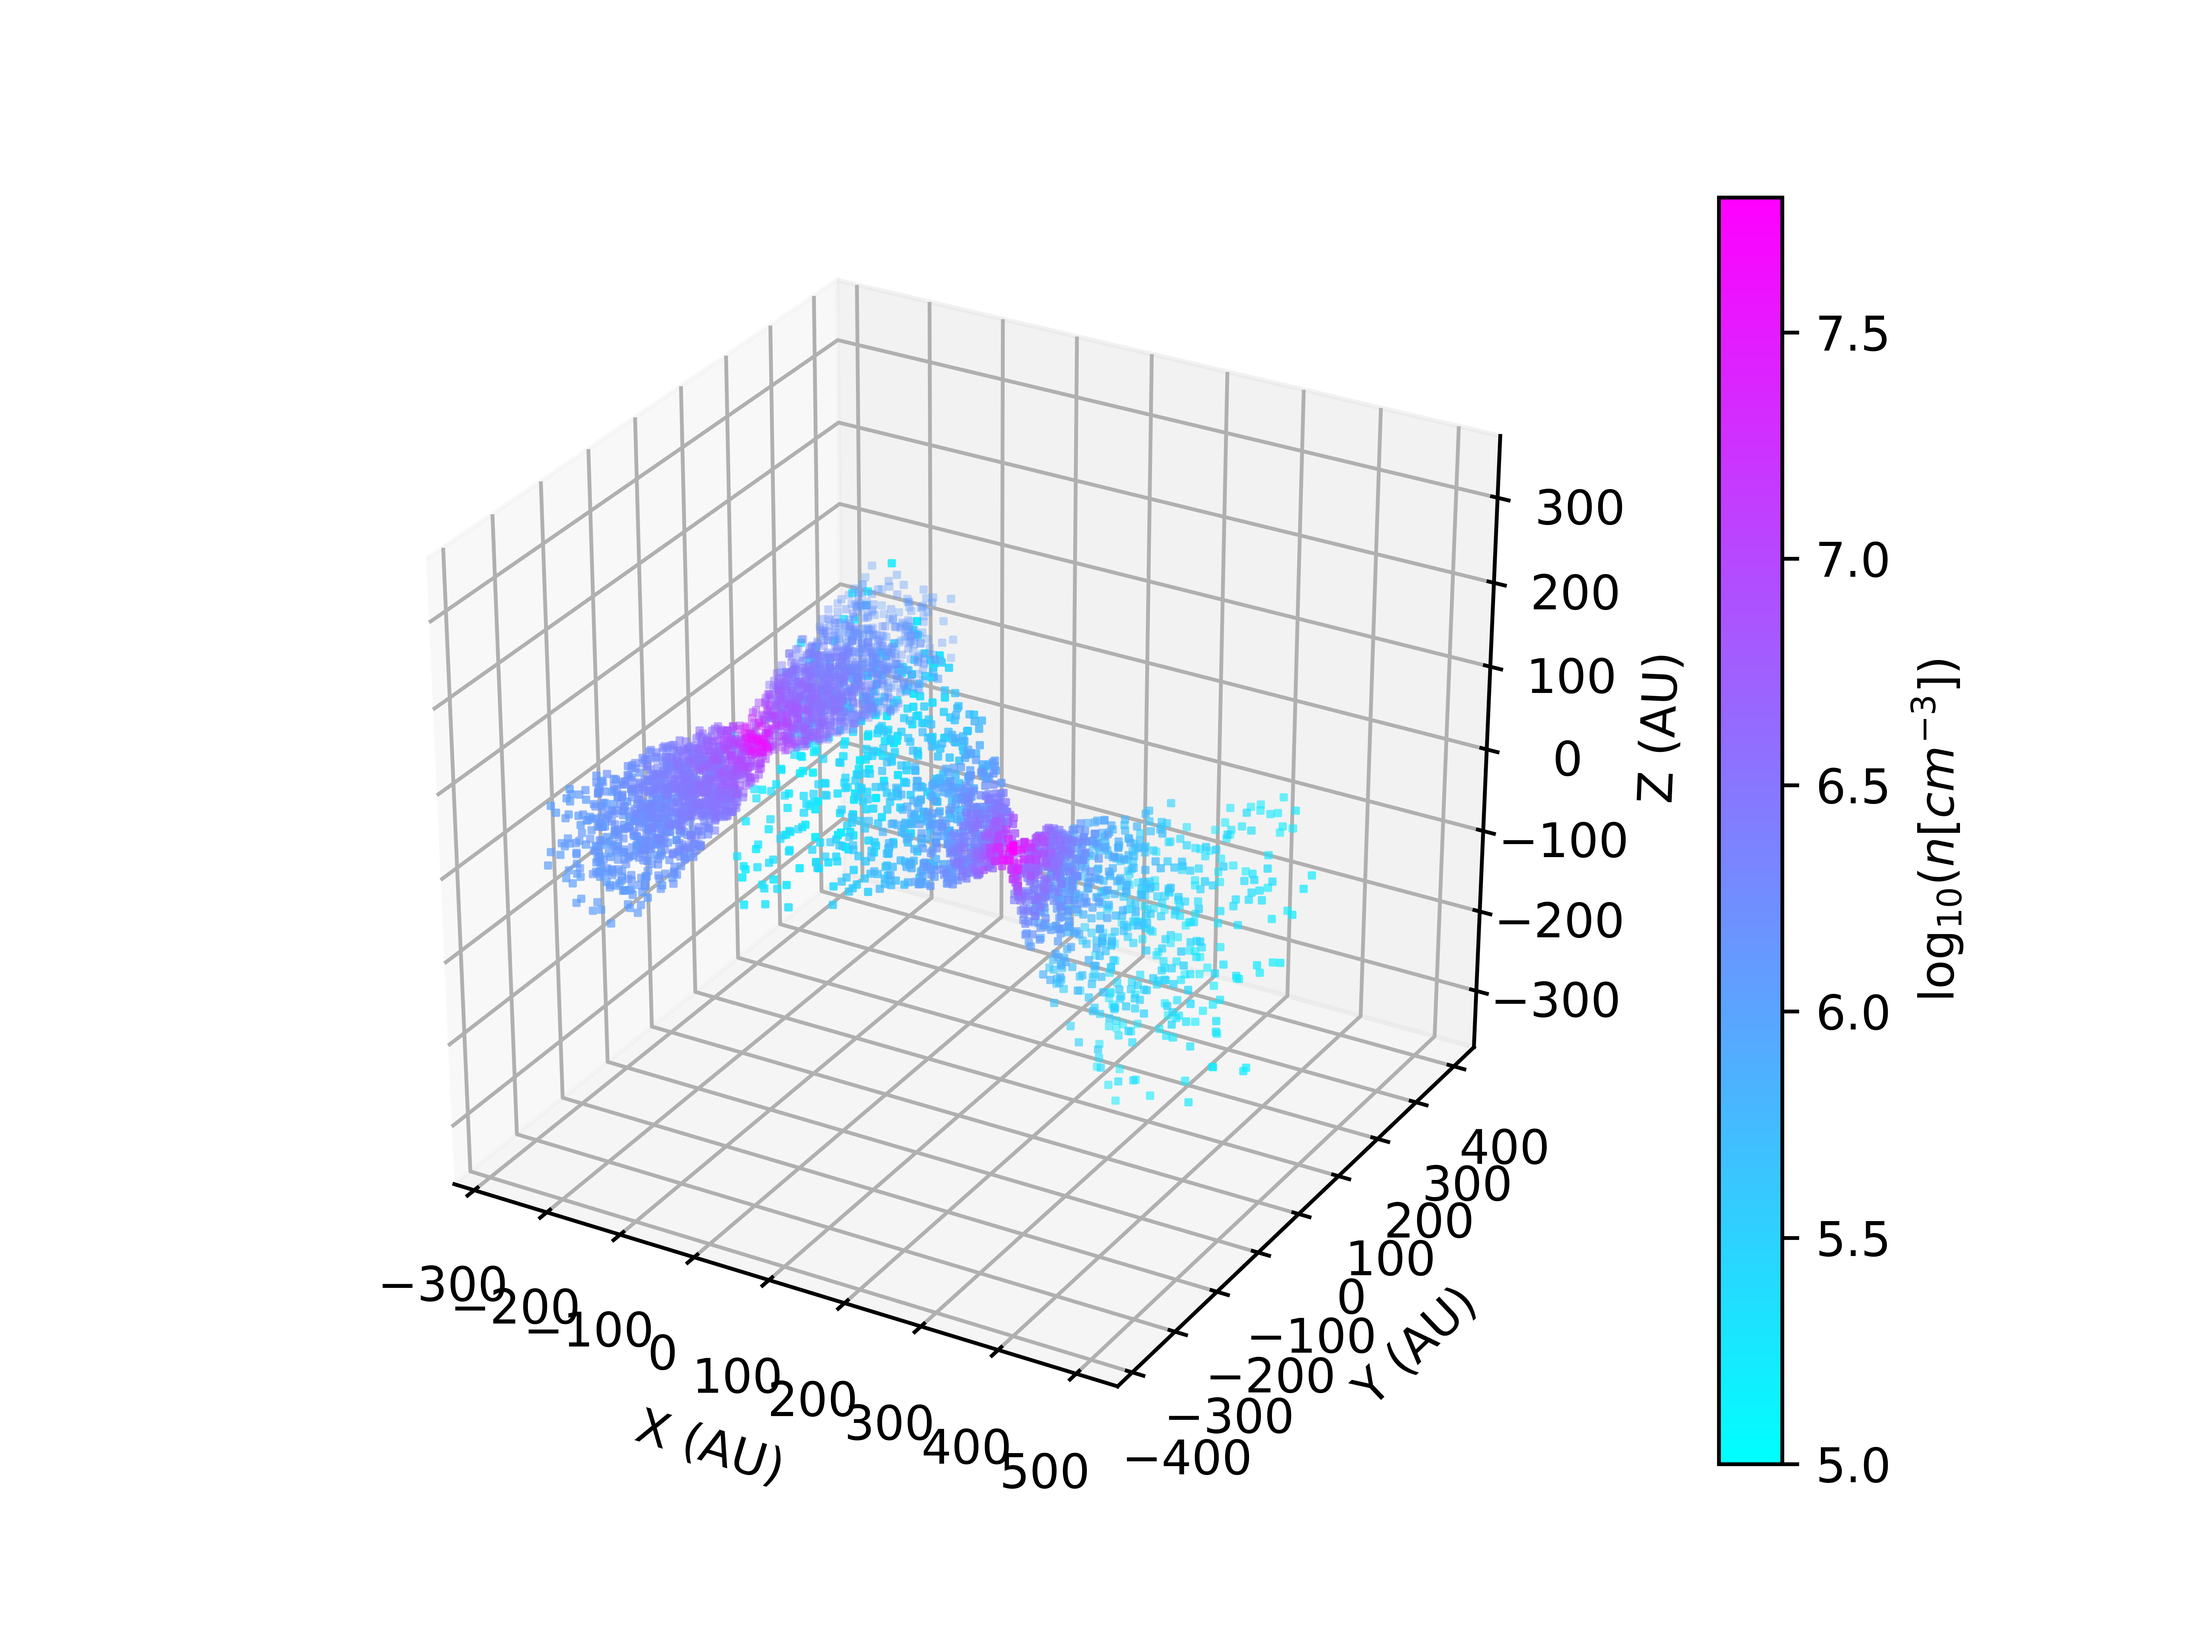
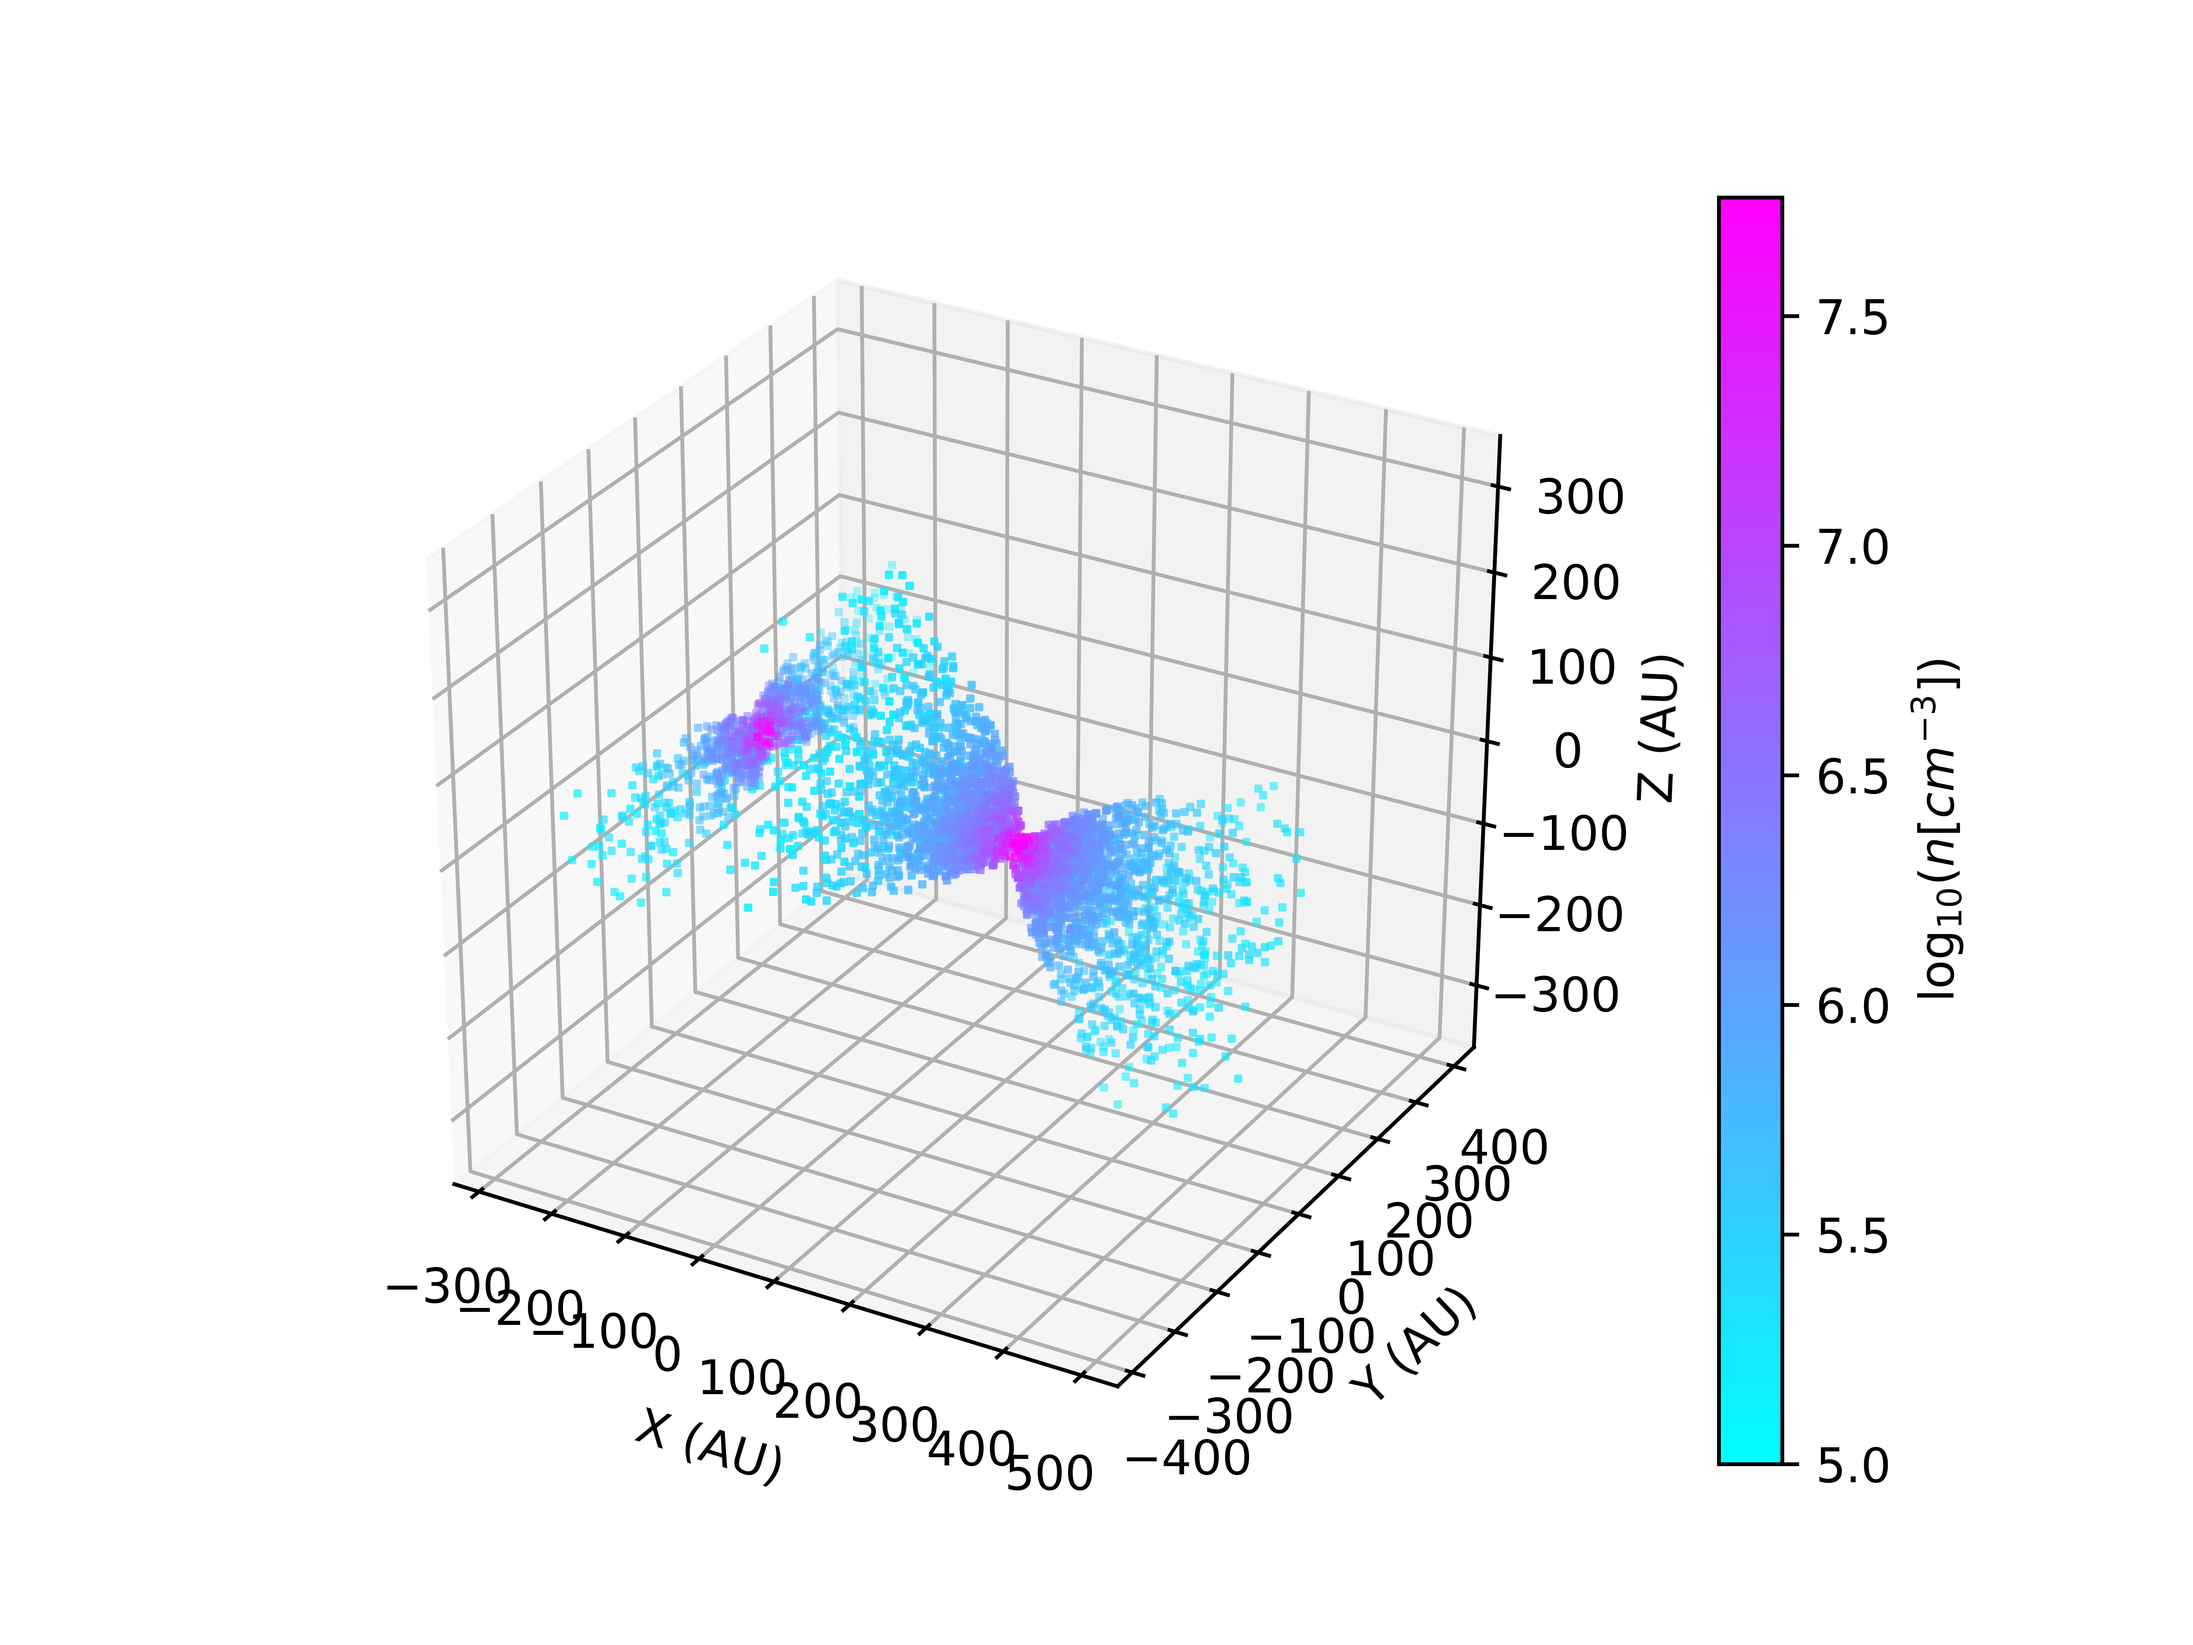
changing density --> density_ion

diff --git a/examples/outflows/make_outflows.py b/examples/outflows/make_outflows.py
@@ -63,8 +63,8 @@ Outf1.reynolds86(w, dens, ionfrac, temp, v0, abund, gtd) #Invoking the outflow m
 #WRITING FOR RADMC3D
 #---------------------
 #Using the Radmc3d class
-prop1 = {'dens_e': Outf1.density,
-         'dens_ion': Outf1.density,
+prop1 = {'dens_e': Outf1.density_ion,
+         'dens_ion': Outf1.density_ion,
          'temp_gas': Outf1.temperature}
 radmc1 = rt.Radmc3d(Outf1.GRID)
 radmc1.submodel(prop1, output='datatab'+tag+'.dat')
@@ -115,8 +115,8 @@ Outf2.reynolds86(w, dens, ionfrac, temp, v0, abund, gtd) #Invoking the outflow m
 #WRITING FOR RADMC3D
 #---------------------
 #Using the Radmc3d class
-prop2 = {'dens_e': Outf2.density,
-         'dens_ion': Outf2.density,
+prop2 = {'dens_e': Outf2.density_ion,
+         'dens_ion': Outf2.density_ion,
          'temp_gas': Outf2.temperature}
 radmc2 = rt.Radmc3d(Outf2.GRID)
 radmc2.submodel(prop2, output='datatab'+tag+'.dat')
